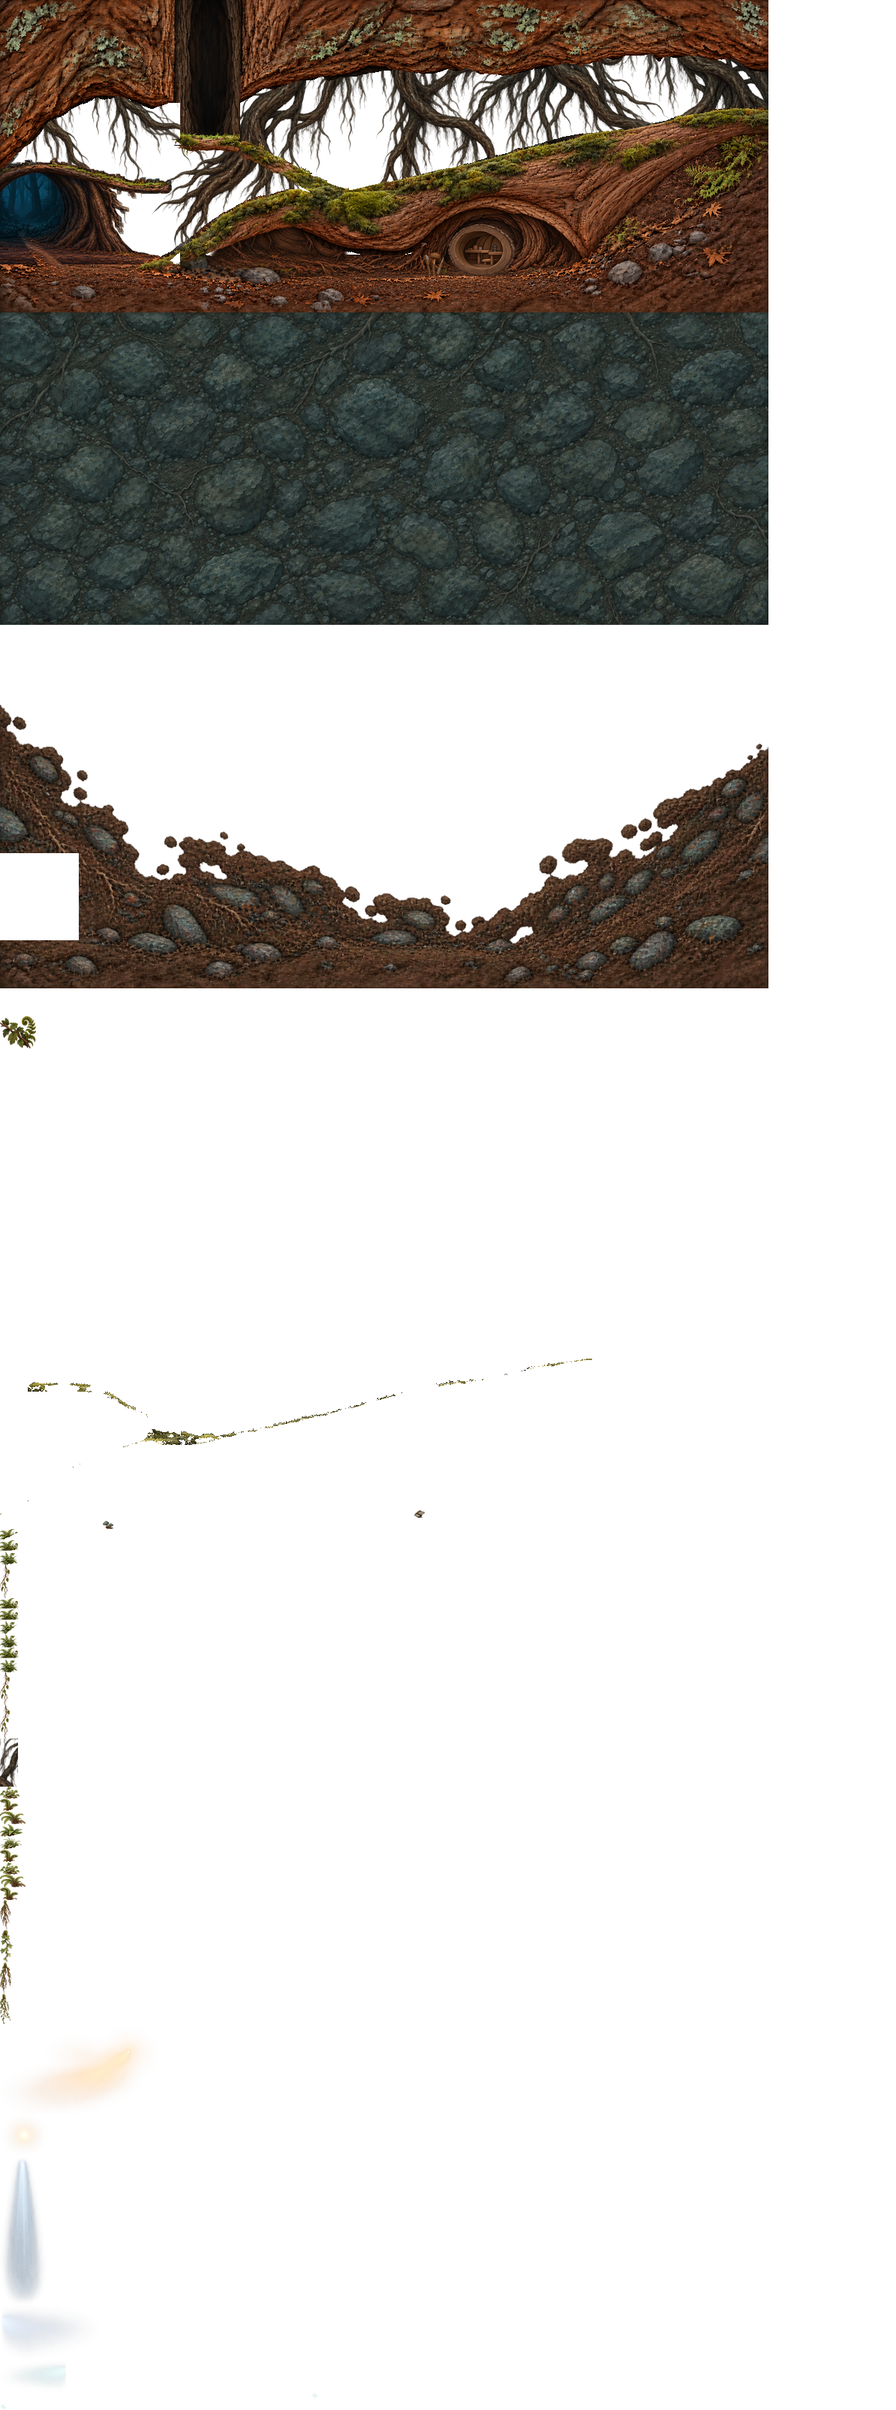
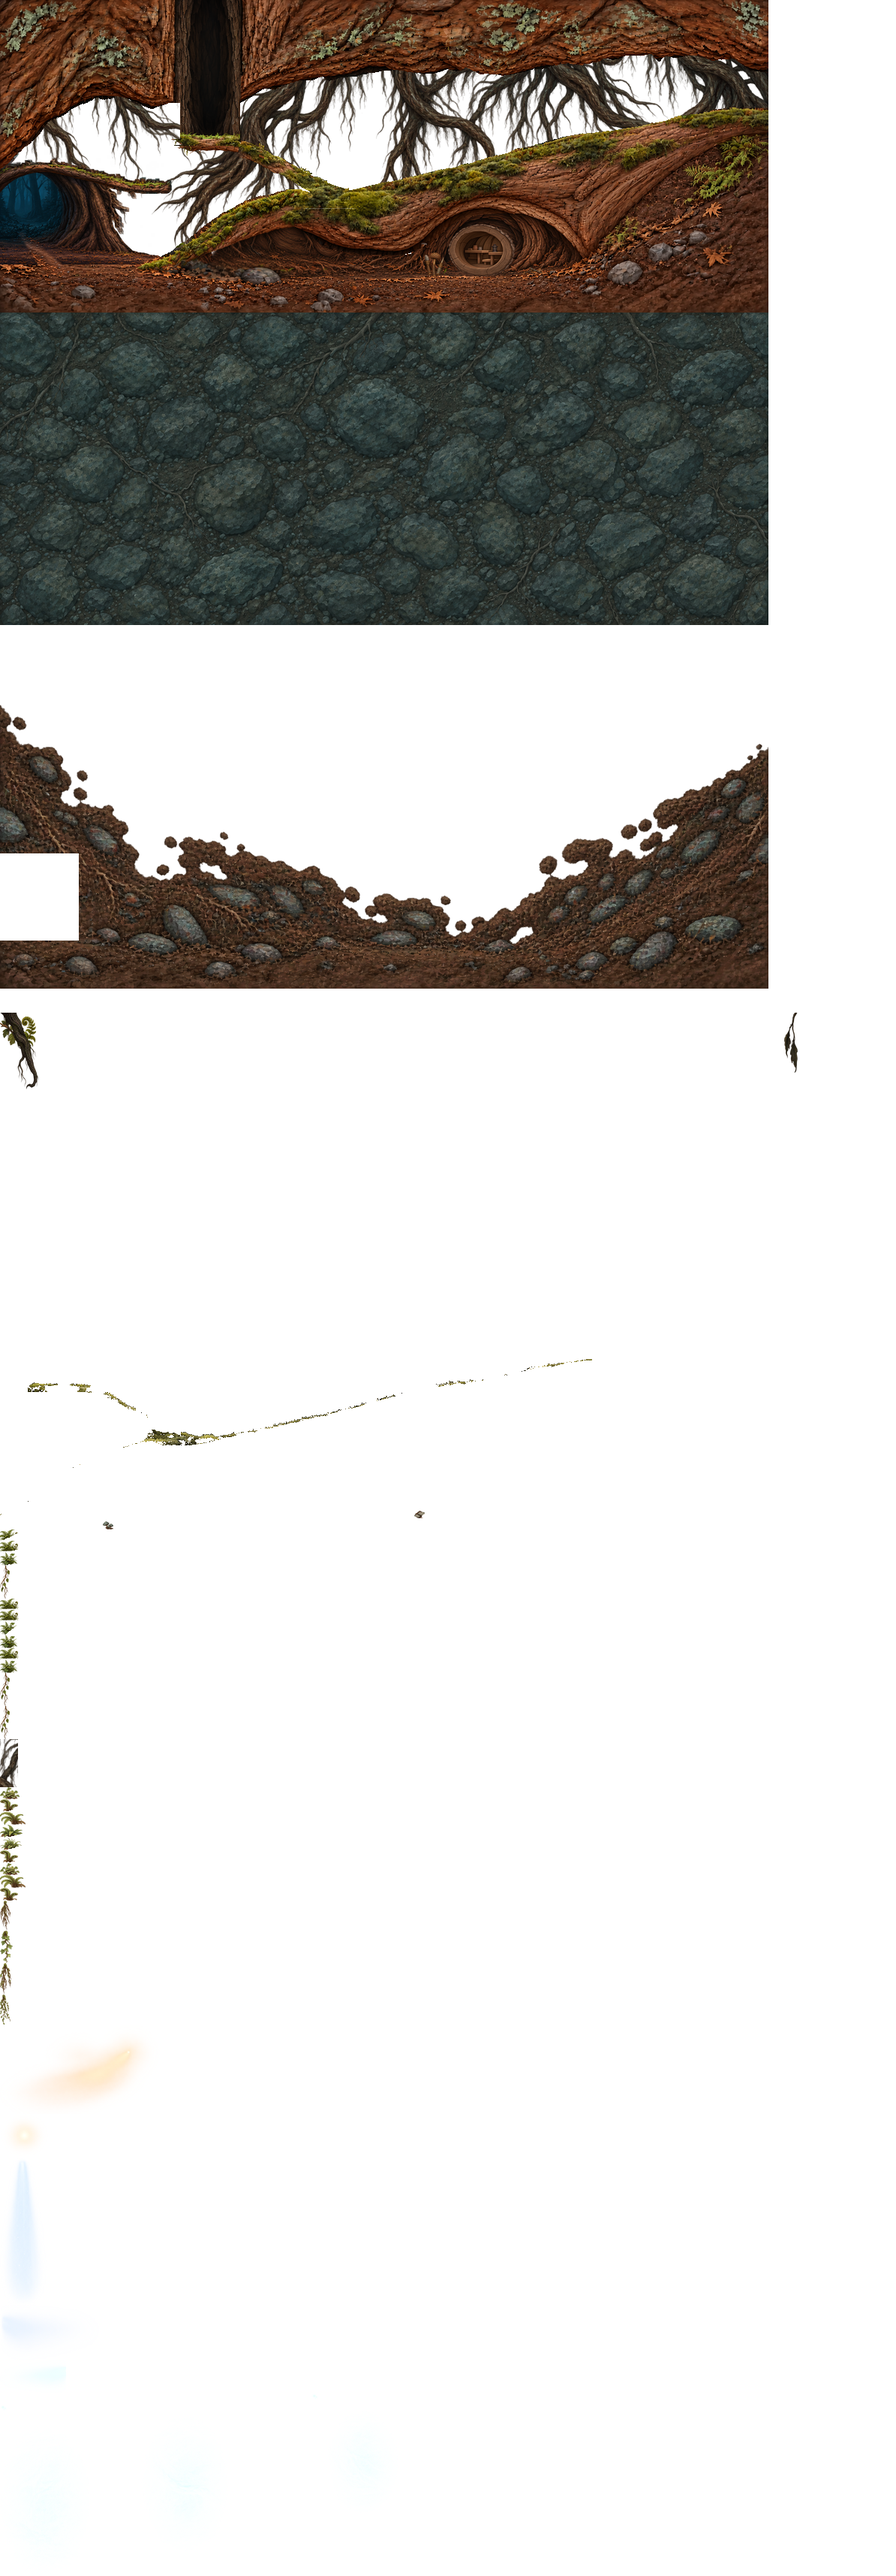
Under the oak finished layers 12 on the test page, and light layers read the same everywhere

diff --git a/painted.html b/painted.html
@@ -11,8 +11,8 @@
 <style>
   /* Alegreya, the title menu's lettering, comes with the game (art/fonts, a Latin cut of it) so it looks the same offline
      or when Google Fonts can't load. SIL Open Font License, in Alegreya-OFL.txt next to it */
-  @font-face { font-family: 'Alegreya'; src: url(art/fonts/Alegreya.woff?v=1027zb) format('woff'); font-weight: 400 900; font-style: normal; font-display: swap; }
-  @font-face { font-family: 'Alegreya'; src: url(art/fonts/Alegreya-Italic.woff?v=1027zb) format('woff'); font-weight: 400 900; font-style: italic; font-display: swap; }
+  @font-face { font-family: 'Alegreya'; src: url(art/fonts/Alegreya.woff?v=1027zc) format('woff'); font-weight: 400 900; font-style: normal; font-display: swap; }
+  @font-face { font-family: 'Alegreya'; src: url(art/fonts/Alegreya-Italic.woff?v=1027zc) format('woff'); font-weight: 400 900; font-style: italic; font-display: swap; }
   /* one dark toy-room look for the whole page: the game screen, a strip of controls under it, a tuning drawer */
   :root {
     --bg: #12131c; --panel: #1d2030; --line: #343a55; --fg: #e8e6f0; --dim: #9aa0bb;
@@ -55,7 +55,7 @@
   .overlay .small { color: var(--dim); font-size: 13px; max-width: 46ch; margin-inline: auto; }
   /* the title card (10/17/2026, Moonlit Grime v5): the painting fills the start screen, the title's in it, so the
      words above it are kept for screen readers only and the start note sits low over the bottom of the picture */
-  #start { background: #07080e url(art/title/title_card.jpg?v=1027zb) center / contain no-repeat; place-items: end end; text-align: right; }
+  #start { background: #07080e url(art/title/title_card.jpg?v=1027zc) center / contain no-repeat; place-items: end end; text-align: right; }
   #start > div:not(#title) { margin: 0 max(2%, 10px) max(2%, 10px) 0; max-width: min(38ch, 46%); padding: 8px 14px 9px; border-radius: 8px; background: rgba(7, 8, 14, .74); }   /* (bottom right, over the water: Phill's in the middle) */
   #start h1, #start .sub { position: absolute; width: 1px; height: 1px; overflow: hidden; clip: rect(0 0 0 0); white-space: nowrap; }
   #start .small { font-size: 12px; margin-inline: 0; }
@@ -64,7 +64,7 @@
      bigger box in the middle with the picture blurred and dimmed behind it. Made to go with the painting
      (10/17/2026): night blue panels with a little paper grain, cream storybook lettering, a thin worn gold edge. The night
      blue also fills round the picture where the screen's a different shape */
-  body.titlemenu #start { cursor: default; background-color: #0a1323; background-image: url(art/title/title_card.jpg?v=1027zb), radial-gradient(ellipse at 50% 35%, #13213a 0%, #0b1426 55%, #070c17 100%); background-size: contain, cover; background-repeat: no-repeat; background-position: center, 0 0; }
+  body.titlemenu #start { cursor: default; background-color: #0a1323; background-image: url(art/title/title_card.jpg?v=1027zc), radial-gradient(ellipse at 50% 35%, #13213a 0%, #0b1426 55%, #070c17 100%); background-size: contain, cover; background-repeat: no-repeat; background-position: center, 0 0; }
   body.titlemenu #start > div:not(#title) { display: none; }
   #title { position: absolute; inset: 0; pointer-events: none; font-family: 'Alegreya', Georgia, 'Palatino Linotype', 'Book Antiqua', serif; --cream: #f2e7cd; --gold: #e4c07a; --muted: #b9ad92; --night: 11, 20, 38; }
   /* the picture's edges melt into the night blue */
@@ -228,11 +228,11 @@
   </div>
 </div>
 <!-- the game's code. Rooms aren't listed here: they load one at a time as Phill gets near them -->
-<script>window.BUILD = '1027zb';   // bump on every update: every script, room file and picture is asked for with it, so a browser never keeps an old copy</script>
-<script src="art/phill/phill_frames.js?v=1027zb"></script>
-<script src="art/crow/crow_frames.js?v=1027zb"></script>
-<script src="art/bear/bear_frames.js?v=1027zb"></script>
-<script src="rooms/index.js?v=1027zb"></script>
+<script>window.BUILD = '1027zc';   // bump on every update: every script, room file and picture is asked for with it, so a browser never keeps an old copy</script>
+<script src="art/phill/phill_frames.js?v=1027zc"></script>
+<script src="art/crow/crow_frames.js?v=1027zc"></script>
+<script src="art/bear/bear_frames.js?v=1027zc"></script>
+<script src="rooms/index.js?v=1027zc"></script>
 <script>
 // the painted rooms test (10/25/2026, Source/Rooms/painted_test.py): the same game, with Rootwood's six painted rooms
 // swapped in from rooms/rootwood/painted. This page's saves and settings are kept apart from the main game's
@@ -252,62 +252,62 @@
   }
 })();
 </script>
-<script src="rooms/map.js?v=1027zb"></script>
-<script src="art/rootwood/rootwood_sprites.js?v=1027zb"></script>
-<script src="art/rootwood/soldier_sprites.js?v=1027zb"></script>
-<script src="art/pond/pond_sprites.js?v=1027zb"></script>
-<script src="art/playground/playground_sprites.js?v=1027zb"></script>
-<script src="art/oak/oak_sprites.js?v=1027zb"></script>
-<script src="art/wildlife/wildlife.js?v=1027zb"></script>
-<script src="art/hitmasks.js?v=1027zb"></script>
-<script src="art/warren/warren_sprites.js?v=1027zb"></script>
-<script src="art/greenhouse/greenhouse_sprites.js?v=1027zb"></script>
-<script src="art/hive/hive_sprites.js?v=1027zb"></script>
-<script src="js/config.js?v=1027zb"></script>
-<script src="js/input.js?v=1027zb"></script>
-<script src="js/audio.js?v=1027zb"></script>
-<script src="js/assets.js?v=1027zb"></script>
-<script src="js/fx.js?v=1027zb"></script>
-<script src="js/world.js?v=1027zb"></script>
-<script src="js/rooms.js?v=1027zb"></script>
-<script src="js/player.js?v=1027zb"></script>
-<script src="js/story.js?v=1027zb"></script>
-<script src="js/idle.js?v=1027zb"></script>
-<script src="js/scene.js?v=1027zb"></script>
-<script src="js/scenes/opening.js?v=1027zb"></script>
-<script src="js/font.js?v=1027zb"></script>
-<script src="js/talk.js?v=1027zb"></script>
-<script src="js/pins.js?v=1027zb"></script>
-<script src="js/foes.js?v=1027zb"></script>
-<script src="js/boss.js?v=1027zb"></script>
-<script src="js/pond.js?v=1027zb"></script>
-<script src="js/pond_bosses.js?v=1027zb"></script>
-<script src="js/rootwood.js?v=1027zb"></script>
-<script src="js/rootwood_foes2.js?v=1027zb"></script>
-<script src="js/rootwood_plants.js?v=1027zb"></script>
-<script src="js/oak.js?v=1027zb"></script>
-<script src="js/wildlife.js?v=1027zb"></script>
-<script src="js/oak_bosses.js?v=1027zb"></script>
-<script src="js/playground.js?v=1027zb"></script>
-<script src="js/playground_bosses.js?v=1027zb"></script>
-<script src="js/moves2.js?v=1027zb"></script>
-<script src="js/map.js?v=1027zb"></script>
-<script src="js/scenes/rootwood.js?v=1027zb"></script>
-<script src="js/camera.js?v=1027zb"></script>
-<script src="js/render.js?v=1027zb"></script>
-<script src="js/warren.js?v=1027zb"></script>
-<script src="js/greenhouse.js?v=1027zb"></script>
-<script src="js/greenhouse_foes.js?v=1027zb"></script>
-<script src="js/greenhouse_boss.js?v=1027zb"></script>
-<script src="js/hive.js?v=1027zb"></script>
-<script src="js/hive_foes.js?v=1027zb"></script>
-<script src="js/hive_bosses.js?v=1027zb"></script>
-<script src="js/bear.js?v=1027zb"></script>
-<script src="js/ui.js?v=1027zb"></script>
-<script src="js/main.js?v=1027zb"></script>
-<script src="js/touch.js?v=1027zb"></script>
-<script src="js/areas.js?v=1027zb"></script>
-<script src="js/debug.js?v=1027zb"></script>
-<script src="js/menu.js?v=1027zb"></script>
+<script src="rooms/map.js?v=1027zc"></script>
+<script src="art/rootwood/rootwood_sprites.js?v=1027zc"></script>
+<script src="art/rootwood/soldier_sprites.js?v=1027zc"></script>
+<script src="art/pond/pond_sprites.js?v=1027zc"></script>
+<script src="art/playground/playground_sprites.js?v=1027zc"></script>
+<script src="art/oak/oak_sprites.js?v=1027zc"></script>
+<script src="art/wildlife/wildlife.js?v=1027zc"></script>
+<script src="art/hitmasks.js?v=1027zc"></script>
+<script src="art/warren/warren_sprites.js?v=1027zc"></script>
+<script src="art/greenhouse/greenhouse_sprites.js?v=1027zc"></script>
+<script src="art/hive/hive_sprites.js?v=1027zc"></script>
+<script src="js/config.js?v=1027zc"></script>
+<script src="js/input.js?v=1027zc"></script>
+<script src="js/audio.js?v=1027zc"></script>
+<script src="js/assets.js?v=1027zc"></script>
+<script src="js/fx.js?v=1027zc"></script>
+<script src="js/world.js?v=1027zc"></script>
+<script src="js/rooms.js?v=1027zc"></script>
+<script src="js/player.js?v=1027zc"></script>
+<script src="js/story.js?v=1027zc"></script>
+<script src="js/idle.js?v=1027zc"></script>
+<script src="js/scene.js?v=1027zc"></script>
+<script src="js/scenes/opening.js?v=1027zc"></script>
+<script src="js/font.js?v=1027zc"></script>
+<script src="js/talk.js?v=1027zc"></script>
+<script src="js/pins.js?v=1027zc"></script>
+<script src="js/foes.js?v=1027zc"></script>
+<script src="js/boss.js?v=1027zc"></script>
+<script src="js/pond.js?v=1027zc"></script>
+<script src="js/pond_bosses.js?v=1027zc"></script>
+<script src="js/rootwood.js?v=1027zc"></script>
+<script src="js/rootwood_foes2.js?v=1027zc"></script>
+<script src="js/rootwood_plants.js?v=1027zc"></script>
+<script src="js/oak.js?v=1027zc"></script>
+<script src="js/wildlife.js?v=1027zc"></script>
+<script src="js/oak_bosses.js?v=1027zc"></script>
+<script src="js/playground.js?v=1027zc"></script>
+<script src="js/playground_bosses.js?v=1027zc"></script>
+<script src="js/moves2.js?v=1027zc"></script>
+<script src="js/map.js?v=1027zc"></script>
+<script src="js/scenes/rootwood.js?v=1027zc"></script>
+<script src="js/camera.js?v=1027zc"></script>
+<script src="js/render.js?v=1027zc"></script>
+<script src="js/warren.js?v=1027zc"></script>
+<script src="js/greenhouse.js?v=1027zc"></script>
+<script src="js/greenhouse_foes.js?v=1027zc"></script>
+<script src="js/greenhouse_boss.js?v=1027zc"></script>
+<script src="js/hive.js?v=1027zc"></script>
+<script src="js/hive_foes.js?v=1027zc"></script>
+<script src="js/hive_bosses.js?v=1027zc"></script>
+<script src="js/bear.js?v=1027zc"></script>
+<script src="js/ui.js?v=1027zc"></script>
+<script src="js/main.js?v=1027zc"></script>
+<script src="js/touch.js?v=1027zc"></script>
+<script src="js/areas.js?v=1027zc"></script>
+<script src="js/debug.js?v=1027zc"></script>
+<script src="js/menu.js?v=1027zc"></script>
 </body>
 </html>

diff --git a/rooms/rootwood/painted/roots.js b/rooms/rootwood/painted/roots.js
@@ -231,6 +231,12 @@ ROOM({
     3186,
     425,
     23
+   ],
+   "piece_glow_6": [
+    0,
+    3209,
+    531,
+    220
    ]
   },
   "layers": [
@@ -444,6 +450,12 @@ ROOM({
     346,
     425,
     23
+   ],
+   "glow_6": [
+    344,
+    59,
+    531,
+    220
    ]
   },
   "uses": [
@@ -613,21 +625,21 @@ ROOM({
    ],
    [
     404,
-    151,
-    30,
-    0.22
+    168,
+    65,
+    0.32
    ],
    [
     590,
-    134,
-    29,
-    0.2
+    144,
+    63,
+    0.32
    ],
    [
     827,
-    103,
-    23,
-    0.17
+    114,
+    50,
+    0.32
    ]
   ]
  },
@@ -2754,6 +2766,13 @@ ROOM({
    0.12,
    0.55,
    10.5,
+   "back"
+  ],
+  [
+   "glow_6",
+   0.16,
+   0.62,
+   12.6,
    "back"
   ]
  ],
